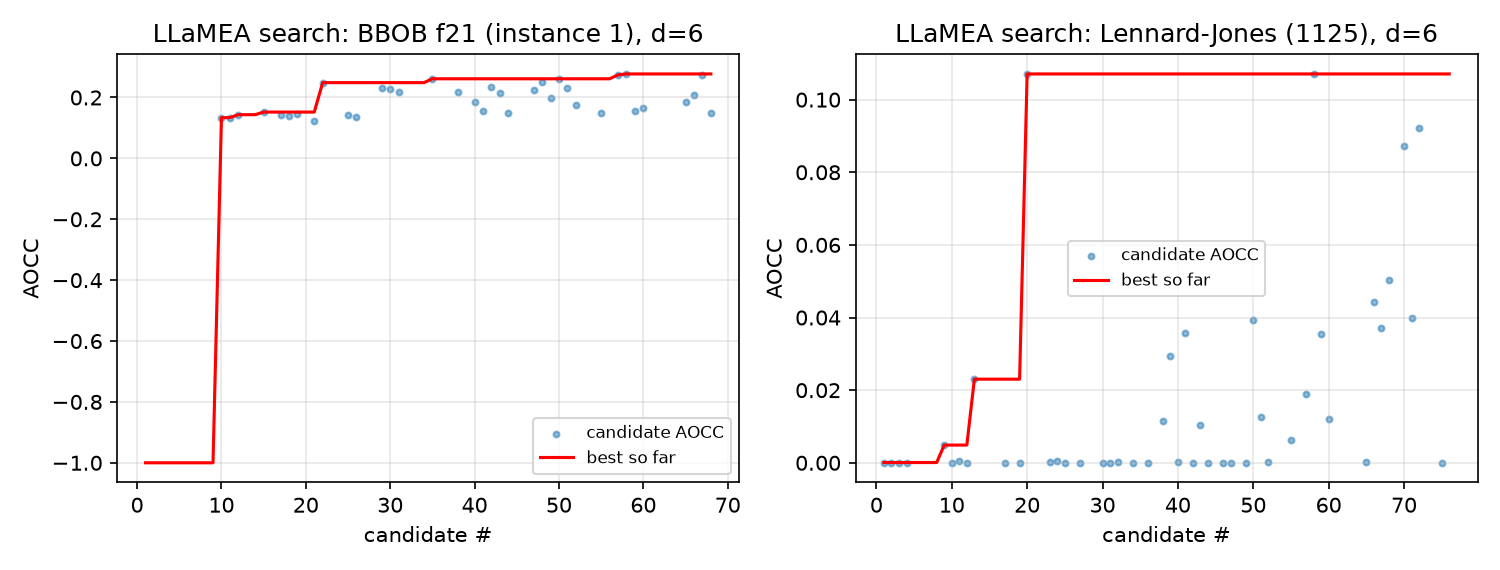
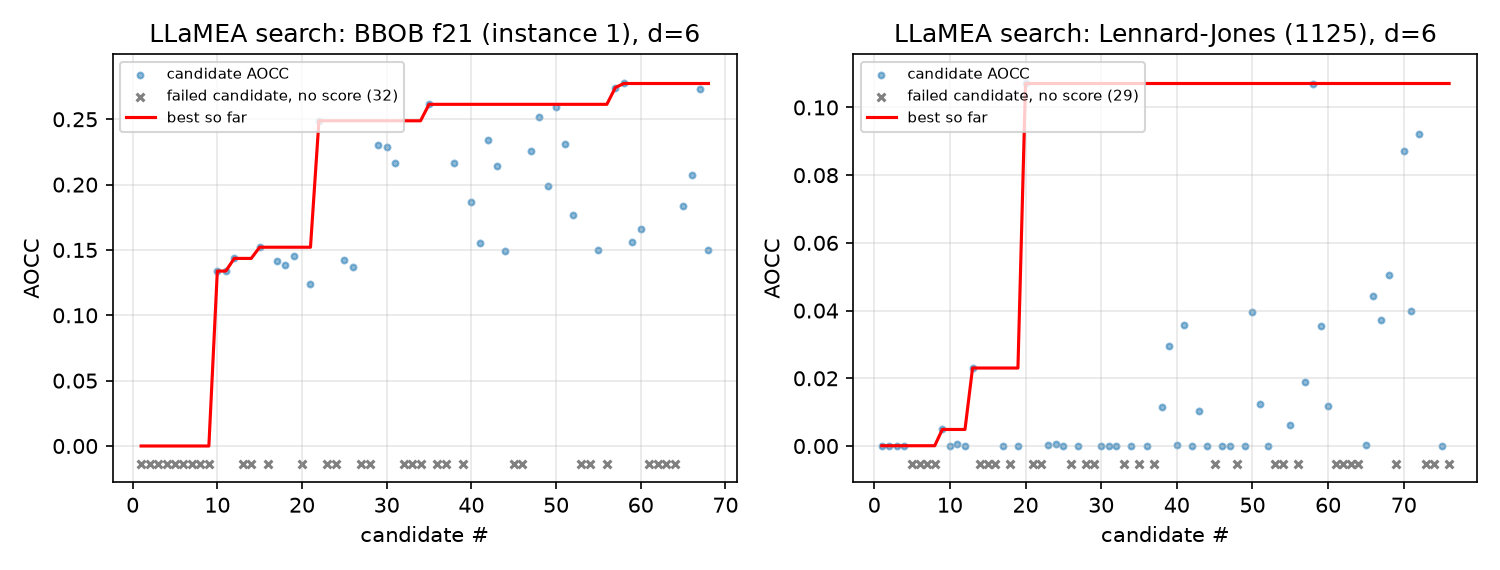
Fix LLaMEA search convergence plot: start best-so-far at 0 and mark failed candidates

diff --git a/make_plots.py b/make_plots.py
@@ -27,7 +27,11 @@ for ax, prob in zip(axs, ["bbob_f21", "lj1125"]):
     for d in sorted(glob.glob(str(ROOT / "results/llamea_logs" / f"exp-*{prob}_run2"))):
         fit = [float(json.loads(l)["fitness"]) for l in open(d + "/log.jsonl")]
         fit = np.array([v if np.isfinite(v) else np.nan for v in fit]); x = np.arange(1, len(fit) + 1)
-        ax.scatter(x, fit, s=8, alpha=.5, label="candidate AOCC"); ax.plot(x, np.fmax.accumulate(np.nan_to_num(fit, nan=-1)), "r", label="best so far")
-    ax.set_title(f"LLaMEA search: {TITLE[prob]}"); ax.set_xlabel("candidate #"); ax.set_ylabel("AOCC"); ax.legend(fontsize=8); ax.grid(alpha=.3)
+        ok = np.isfinite(fit); top = np.nanmax(fit); yfail = -0.05 * top
+        ax.scatter(x[ok], fit[ok], s=8, alpha=.5, label="candidate AOCC")
+        ax.scatter(x[~ok], np.full((~ok).sum(), yfail), s=14, marker="x", c="gray", label=f"failed candidate, no score ({(~ok).sum()})")
+        ax.plot(x, np.fmax.accumulate(np.nan_to_num(fit, nan=0.0)), "r", label="best so far")   # AOCC >= 0, line starts at 0
+        ax.set_ylim(yfail * 2, top * 1.08)
+    ax.set_title(f"LLaMEA search: {TITLE[prob]}"); ax.set_xlabel("candidate #"); ax.set_ylabel("AOCC"); ax.legend(fontsize=7, loc="upper left"); ax.grid(alpha=.3)
 fig.tight_layout(); fig.savefig(FIG / "llamea_search_convergence.png", dpi=150)
 print((FIG / "summary.md").read_text())
